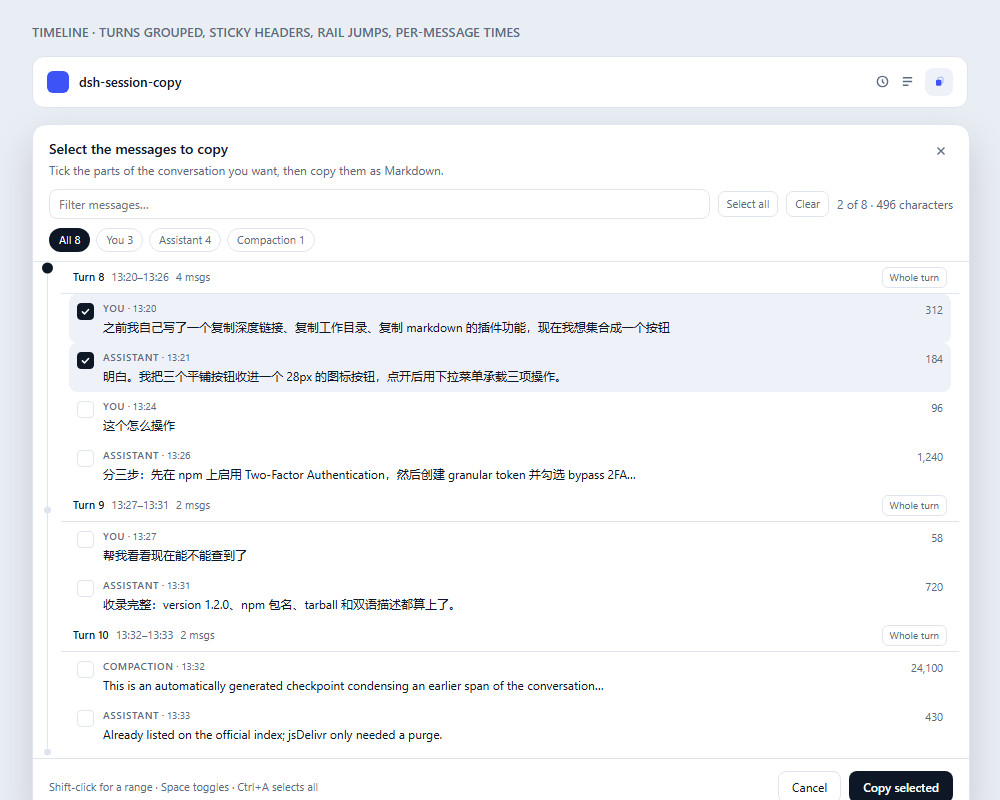
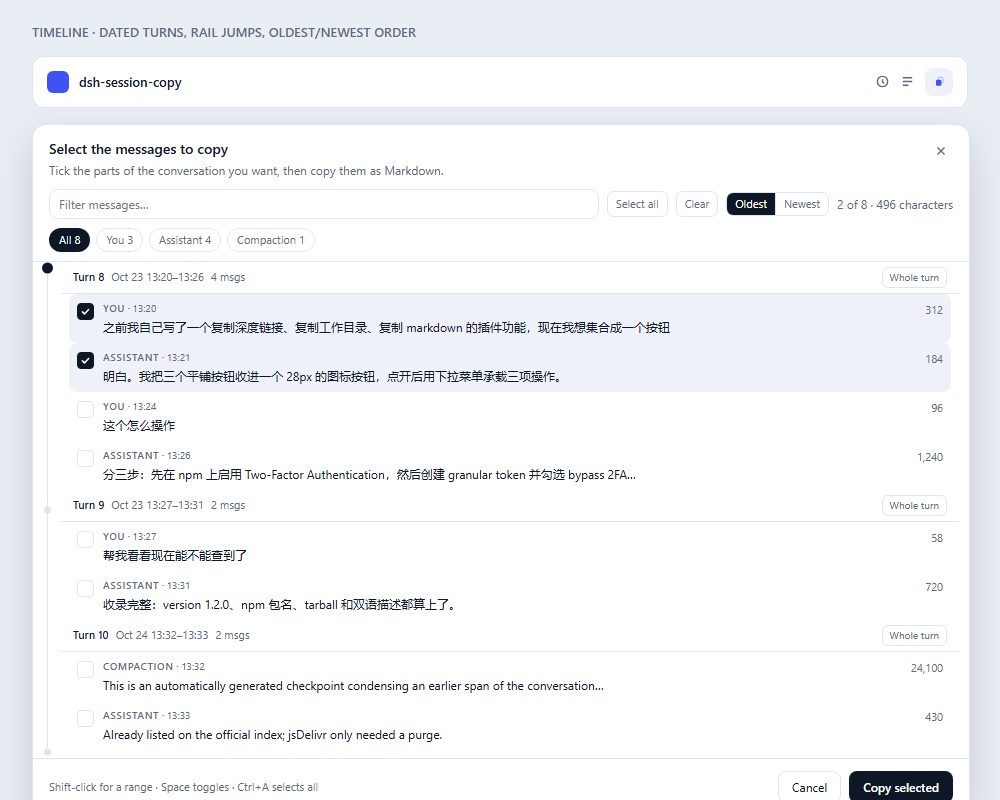
Release 1.7.0: dated timeline headers, and oldest/newest order
Two requests, both about finding a stretch of conversation.

Dates:
- Every turn header now carries the calendar date as well as the clock range —
  `Oct 23 13:20–13:26` — because readers look for "the one from the 23rd", not
  "the one at 13:20". A turn that crosses midnight renders both dates
  (`Oct 23 23:50 – Oct 24 00:12`). Row times stay `HH:MM` since the header above
  them already names the day.

Order:
- `Oldest` / `Newest` in the toolbar flips the whole timeline: the groups, the
  rows inside each group, and the rail, so newest-first starts at the most recent
  exchange and still reads naturally downwards. The scroll spy keeps working
  because it walks the rendered order, and the rail index is a position in that
  order.
- Ordering is presentation only. Selection keys off each entry's `index`, so a
  tick in either direction names the same message — asserted in the tests.

Also fixed while wiring this: `orderedGroups` dereferenced `picker` when the
dialog was closed, which threw on the next render after closing. It is now
guarded, and the client suite exercises open/close/open.

Tests: the client suite grows to 46 checks, adding the dated header, the range
keeping its clock, both order buttons, newest-first reversing groups and rows,
the rail following the order, and a reversed-order copy sending index [2] for the
same message. All four suites (46 + 10 + 16 + 16) pass against the installed copy.

diff --git a/assets/picker.html b/assets/picker.html
@@ -21,7 +21,7 @@
   .dshSessionCopyButton{width:26px;height:26px;background:var(--dsw-alias-interactive-bg-hover) !important;
     color:var(--dsw-alias-label-primary) !important}
   .dshSessionCopyButton svg{width:22px;height:22px}
-  .dshSessionCopyWrap{position:relative;display:inline-flex;align-items:center}.dshSessionCopyButton{display:inline-flex;align-items:center;justify-content:center;width:28px;height:28px;flex:none;padding:0;border:0;border-radius:8px;background:transparent;cursor:pointer;color:var(--dsw-alias-label-secondary)}.dshSessionCopyButton svg{width:15px;height:15px}.dshSessionCopyButton:hover,.dshSessionCopyButton[aria-expanded="true"]{color:var(--dsw-alias-label-primary);background:var(--dsw-alias-interactive-bg-hover)}.dshSessionCopyNode{position:relative;display:inline-flex;align-items:center}.dshSessionCopyPopover{position:absolute;top:calc(100% + 6px);right:0;z-index:45;display:flex;flex-direction:column;gap:2px;min-width:188px;padding:4px;border:1px solid var(--dsw-alias-border-l2);border-radius:10px;background:var(--dsw-alias-bg-base,#fff);box-shadow:0 12px 28px rgba(0,0,0,.18)}.dshSessionCopyItem{display:flex;align-items:center;gap:8px;width:100%;padding:6px 10px;border:0;border-radius:6px;background:transparent;cursor:pointer;color:var(--dsw-alias-label-primary);font-family:var(--dsw-font-family);font-size:12px;line-height:18px;text-align:left;white-space:nowrap}.dshSessionCopyItem:hover,.dshSessionCopyItem:focus-visible{background:var(--dsw-alias-interactive-bg-hover);outline:none}.dshSessionCopyItemIcon{display:inline-flex;align-items:center;flex:none;color:var(--dsw-alias-label-secondary)}.dshSessionCopyItemIcon svg{width:14px;height:14px}.dshSessionCopyNotice{position:absolute;top:calc(100% + 8px);right:0;z-index:40;max-width:min(440px,62vw);padding:6px 10px;border:1px solid var(--dsw-alias-border-l2);border-radius:8px;background:var(--dsw-alias-bg-base,#fff);color:var(--dsw-alias-label-primary);font-family:var(--dsw-font-family);font-size:12px;line-height:18px;box-shadow:0 8px 24px rgba(0,0,0,.18);white-space:nowrap;overflow:hidden;text-overflow:ellipsis;pointer-events:none}.dshSessionCopyNoticeError{color:var(--dsw-alias-label-error,#b42318)}.dshSessionCopyMask{position:fixed;inset:0;z-index:9999;display:flex;align-items:center;justify-content:center;padding:24px;background:rgba(8,14,24,.44)}.dshSessionCopyDialog{display:flex;flex-direction:column;width:min(920px,94vw);max-height:min(78vh,760px);border:1px solid var(--dsw-alias-border-l2);border-radius:14px;background:var(--dsw-alias-bg-base,#fff);color:var(--dsw-alias-label-primary);font-family:var(--dsw-font-family);box-shadow:0 24px 64px rgba(0,0,0,.30);overflow:hidden}@media (max-width:1040px){.dshSessionCopyDialog{width:min(94vw,100%)}}.dshSessionCopyDialogHead{display:flex;align-items:flex-start;gap:12px;padding:14px 16px 10px}.dshSessionCopyDialogTitles{min-width:0;flex:1}.dshSessionCopyDialogTitle{font-size:14px;font-weight:600;line-height:20px}.dshSessionCopyDialogDesc{margin-top:2px;font-size:12px;line-height:18px;color:var(--dsw-alias-label-secondary)}.dshSessionCopyClose{display:inline-flex;align-items:center;justify-content:center;width:24px;height:24px;flex:none;padding:0;border:0;border-radius:6px;background:transparent;cursor:pointer;color:var(--dsw-alias-label-secondary)}.dshSessionCopyClose:hover{background:var(--dsw-alias-interactive-bg-hover);color:var(--dsw-alias-label-primary)}.dshSessionCopyPickerBody{display:flex;flex-direction:column;min-height:0;flex:1}.dshSessionCopyToolbar{display:flex;align-items:center;gap:8px;flex-wrap:wrap;padding:0 16px 9px}.dshSessionCopyFilter{flex:1 1 170px;min-width:120px;padding:5px 9px;border:1px solid var(--dsw-alias-border-l2);border-radius:8px;background:transparent;color:inherit;font-family:inherit;font-size:12px;line-height:18px;outline:none}.dshSessionCopyFilter:focus{border-color:var(--dsw-alias-label-secondary)}.dshSessionCopyTool{padding:4px 8px;border:1px solid var(--dsw-alias-border-l2);border-radius:7px;background:transparent;color:var(--dsw-alias-label-secondary);font-family:inherit;font-size:11px;line-height:16px;cursor:pointer}.dshSessionCopyTool:hover:not(:disabled){background:var(--dsw-alias-interactive-bg-hover);color:var(--dsw-alias-label-primary)}.dshSessionCopyTool:disabled{opacity:.45;cursor:default}.dshSessionCopyCount{margin-left:auto;font-size:12px;line-height:18px;color:var(--dsw-alias-label-secondary);white-space:nowrap}.dshSessionCopyListWrap{display:flex;flex:1 1 auto;min-height:160px;border-top:1px solid var(--dsw-alias-border-l2)}.dshSessionCopyRail{position:relative;width:28px;flex:none;margin:6px 0;cursor:default}.dshSessionCopyRailTrack{position:absolute;left:50%;top:4px;bottom:4px;width:1px;margin-left:-0.5px;background:var(--dsw-alias-border-l2)}.dshSessionCopyRailDot{position:absolute;left:50%;width:7px;height:7px;margin-left:-3.5px;padding:0;border:0;border-radius:999px;background:var(--dsw-alias-border-l2);cursor:pointer;transform:translateY(-50%);transition:background .12s ease,width .12s ease,height .12s ease,margin .12s ease}.dshSessionCopyRailDot:hover{background:var(--dsw-alias-label-secondary)}.dshSessionCopyRailDotOn{width:11px;height:11px;margin-left:-5.5px;background:var(--dsw-alias-label-primary)}.dshSessionCopyList{position:relative;flex:1 1 auto;min-width:0;overflow-y:auto;overscroll-behavior:contain;padding:0 8px 8px;scrollbar-width:thin;scrollbar-color:var(--dsw-alias-border-l2) transparent;scrollbar-gutter:stable}.dshSessionCopyList::-webkit-scrollbar{width:12px}.dshSessionCopyList::-webkit-scrollbar-track{background:transparent;margin:4px 0}.dshSessionCopyList::-webkit-scrollbar-thumb{background:var(--dsw-alias-border-l2);border-radius:999px;border:4px solid transparent;background-clip:content-box;min-height:40px}.dshSessionCopyList::-webkit-scrollbar-thumb:hover{background:var(--dsw-alias-label-secondary);background-clip:content-box;border:4px solid transparent}.dshSessionCopyRow{display:flex;align-items:flex-start;gap:9px;padding:7px 8px;border-radius:8px;cursor:pointer}.dshSessionCopyRow:hover{background:var(--dsw-alias-interactive-bg-hover)}.dshSessionCopyRowOn{background:var(--dsw-alias-interactive-bg-hover)}.dshSessionCopyRow:focus-visible{outline:2px solid var(--dsw-alias-label-secondary);outline-offset:-2px}.dshSessionCopyBox{display:inline-flex;align-items:center;justify-content:center;width:15px;height:15px;flex:none;margin-top:2px;border:1.5px solid var(--dsw-alias-border-l2);border-radius:4px;background:transparent;color:var(--dsw-alias-bg-base,#fff)}.dshSessionCopyBoxOn{background:var(--dsw-alias-label-primary);border-color:var(--dsw-alias-label-primary)}.dshSessionCopyBox svg{width:11px;height:11px}.dshSessionCopyRowText{min-width:0;flex:1}.dshSessionCopyRole{display:block;font-size:10px;font-weight:600;letter-spacing:.06em;text-transform:uppercase;color:var(--dsw-alias-label-secondary)}.dshSessionCopyPreview{font-size:12px;line-height:17px;color:var(--dsw-alias-label-primary);word-break:break-word}.dshSessionCopyRowChars{flex:none;font-size:11px;line-height:17px;color:var(--dsw-alias-label-secondary)}.dshSessionCopyTime{color:var(--dsw-alias-label-secondary);font-weight:400;letter-spacing:0}.dshSessionCopyGroup{position:sticky;top:0;z-index:2;display:flex;align-items:center;gap:7px;margin:0 -8px;padding:5px 12px;background:var(--dsw-alias-bg-base,#fff);border-bottom:1px solid var(--dsw-alias-border-l2);font-size:11px;line-height:16px;color:var(--dsw-alias-label-secondary);white-space:nowrap}.dshSessionCopyGroupTurn{font-weight:600;color:var(--dsw-alias-label-primary)}.dshSessionCopyGroupCount{color:var(--dsw-alias-label-secondary)}.dshSessionCopyGroupToggle{margin-left:auto;padding:2px 7px;border:1px solid var(--dsw-alias-border-l2);border-radius:6px;background:transparent;color:var(--dsw-alias-label-secondary);font-family:inherit;font-size:10px;line-height:15px;cursor:pointer}.dshSessionCopyGroupToggle:hover{background:var(--dsw-alias-interactive-bg-hover);color:var(--dsw-alias-label-primary)}.dshSessionCopyGroupToggleOn{background:var(--dsw-alias-label-primary);border-color:transparent;color:var(--dsw-alias-bg-base,#fff)}.dshSessionCopyGroupToggleOn:hover{background:var(--dsw-alias-label-primary);color:var(--dsw-alias-bg-base,#fff)}.dshSessionCopyEmpty{padding:26px 16px;text-align:center;font-size:12px;line-height:18px;color:var(--dsw-alias-label-secondary)}.dshSessionCopyPickerError{padding:0 16px 8px;font-size:12px;line-height:18px;color:var(--dsw-alias-label-error,#b42318)}.dshSessionCopyChips{display:flex;flex-wrap:wrap;gap:6px;padding:0 16px 9px}.dshSessionCopyChip{padding:3px 9px;border:1px solid var(--dsw-alias-border-l2);border-radius:999px;background:transparent;color:var(--dsw-alias-label-secondary);font-family:inherit;font-size:11px;line-height:16px;cursor:pointer}.dshSessionCopyChip:hover{background:var(--dsw-alias-interactive-bg-hover);color:var(--dsw-alias-label-primary)}.dshSessionCopyChipOn{background:var(--dsw-alias-label-primary);border-color:transparent;color:var(--dsw-alias-bg-base,#fff)}.dshSessionCopyChipOn:hover{background:var(--dsw-alias-label-primary);color:var(--dsw-alias-bg-base,#fff)}.dshSessionCopyHint{margin-right:auto;font-size:11px;line-height:16px;color:var(--dsw-alias-label-secondary)}.dshSessionCopyFoot{display:flex;align-items:center;justify-content:flex-end;flex-wrap:wrap;gap:8px;padding:12px 16px;border-top:1px solid var(--dsw-alias-border-l2)}.dshSessionCopyAction{padding:6px 13px;border:1px solid var(--dsw-alias-border-l2);border-radius:8px;background:transparent;color:var(--dsw-alias-label-primary);font-family:inherit;font-size:12px;line-height:18px;cursor:pointer}.dshSessionCopyAction:hover:not(:disabled){background:var(--dsw-alias-interactive-bg-hover)}.dshSessionCopyAction:disabled{opacity:.45;cursor:default}.dshSessionCopyActionPrimary{border-color:transparent;background:var(--dsw-alias-label-primary);color:var(--dsw-alias-bg-base,#fff);font-weight:600}.dshSessionCopyActionPrimary:hover:not(:disabled){background:var(--dsw-alias-label-primary);opacity:.88}
+  .dshSessionCopyWrap{position:relative;display:inline-flex;align-items:center}.dshSessionCopyButton{display:inline-flex;align-items:center;justify-content:center;width:28px;height:28px;flex:none;padding:0;border:0;border-radius:8px;background:transparent;cursor:pointer;color:var(--dsw-alias-label-secondary)}.dshSessionCopyButton svg{width:15px;height:15px}.dshSessionCopyButton:hover,.dshSessionCopyButton[aria-expanded="true"]{color:var(--dsw-alias-label-primary);background:var(--dsw-alias-interactive-bg-hover)}.dshSessionCopyNode{position:relative;display:inline-flex;align-items:center}.dshSessionCopyPopover{position:absolute;top:calc(100% + 6px);right:0;z-index:45;display:flex;flex-direction:column;gap:2px;min-width:216px;padding:4px;border:1px solid var(--dsw-alias-border-l2);border-radius:10px;background:var(--dsw-alias-bg-base,#fff);box-shadow:0 12px 28px rgba(0,0,0,.18)}.dshSessionCopyItem{display:flex;align-items:center;gap:8px;width:100%;padding:6px 10px;border:0;border-radius:6px;background:transparent;cursor:pointer;color:var(--dsw-alias-label-primary);font-family:var(--dsw-font-family);font-size:12px;line-height:18px;text-align:left;white-space:nowrap}.dshSessionCopyItem:hover,.dshSessionCopyItem:focus-visible{background:var(--dsw-alias-interactive-bg-hover);outline:none}.dshSessionCopyItemIcon{display:inline-flex;align-items:center;flex:none;color:var(--dsw-alias-label-secondary)}.dshSessionCopyItemIcon svg{width:14px;height:14px}.dshSessionCopyNotice{position:absolute;top:calc(100% + 8px);right:0;z-index:40;max-width:min(440px,62vw);padding:6px 10px;border:1px solid var(--dsw-alias-border-l2);border-radius:8px;background:var(--dsw-alias-bg-base,#fff);color:var(--dsw-alias-label-primary);font-family:var(--dsw-font-family);font-size:12px;line-height:18px;box-shadow:0 8px 24px rgba(0,0,0,.18);white-space:nowrap;overflow:hidden;text-overflow:ellipsis;pointer-events:none}.dshSessionCopyNoticeError{color:var(--dsw-alias-label-error,#b42318)}.dshSessionCopyMask{position:fixed;inset:0;z-index:9999;display:flex;align-items:center;justify-content:center;padding:24px;background:rgba(8,14,24,.44)}.dshSessionCopyDialog{display:flex;flex-direction:column;width:min(920px,94vw);max-height:min(78vh,760px);border:1px solid var(--dsw-alias-border-l2);border-radius:14px;background:var(--dsw-alias-bg-base,#fff);color:var(--dsw-alias-label-primary);font-family:var(--dsw-font-family);box-shadow:0 24px 64px rgba(0,0,0,.30);overflow:hidden}@media (max-width:1040px){.dshSessionCopyDialog{width:min(94vw,100%)}}.dshSessionCopyDialogHead{display:flex;align-items:flex-start;gap:12px;padding:14px 16px 10px}.dshSessionCopyDialogTitles{min-width:0;flex:1}.dshSessionCopyDialogTitle{font-size:14px;font-weight:600;line-height:20px}.dshSessionCopyDialogDesc{margin-top:2px;font-size:12px;line-height:18px;color:var(--dsw-alias-label-secondary)}.dshSessionCopyClose{display:inline-flex;align-items:center;justify-content:center;width:24px;height:24px;flex:none;padding:0;border:0;border-radius:6px;background:transparent;cursor:pointer;color:var(--dsw-alias-label-secondary)}.dshSessionCopyClose:hover{background:var(--dsw-alias-interactive-bg-hover);color:var(--dsw-alias-label-primary)}.dshSessionCopyPickerBody{display:flex;flex-direction:column;min-height:0;flex:1}.dshSessionCopyToolbar{display:flex;align-items:center;gap:8px;flex-wrap:wrap;padding:0 16px 9px}.dshSessionCopyFilter{flex:1 1 170px;min-width:120px;padding:5px 9px;border:1px solid var(--dsw-alias-border-l2);border-radius:8px;background:transparent;color:inherit;font-family:inherit;font-size:12px;line-height:18px;outline:none}.dshSessionCopyFilter:focus{border-color:var(--dsw-alias-label-secondary)}.dshSessionCopyTool{padding:4px 8px;border:1px solid var(--dsw-alias-border-l2);border-radius:7px;background:transparent;color:var(--dsw-alias-label-secondary);font-family:inherit;font-size:11px;line-height:16px;cursor:pointer}.dshSessionCopyTool:hover:not(:disabled){background:var(--dsw-alias-interactive-bg-hover);color:var(--dsw-alias-label-primary)}.dshSessionCopyTool:disabled{opacity:.45;cursor:default}.dshSessionCopyCount{margin-left:auto;font-size:12px;line-height:18px;color:var(--dsw-alias-label-secondary);white-space:nowrap}.dshSessionCopyListWrap{display:flex;flex:1 1 auto;min-height:160px;border-top:1px solid var(--dsw-alias-border-l2)}.dshSessionCopyRail{position:relative;width:28px;flex:none;margin:6px 0;cursor:default}.dshSessionCopyRailTrack{position:absolute;left:50%;top:4px;bottom:4px;width:1px;margin-left:-0.5px;background:var(--dsw-alias-border-l2)}.dshSessionCopyRailDot{position:absolute;left:50%;width:7px;height:7px;margin-left:-3.5px;padding:0;border:0;border-radius:999px;background:var(--dsw-alias-border-l2);cursor:pointer;transform:translateY(-50%);transition:background .12s ease,width .12s ease,height .12s ease,margin .12s ease}.dshSessionCopyRailDot:hover{background:var(--dsw-alias-label-secondary)}.dshSessionCopyRailDotOn{width:11px;height:11px;margin-left:-5.5px;background:var(--dsw-alias-label-primary)}.dshSessionCopyList{position:relative;flex:1 1 auto;min-width:0;overflow-y:auto;overscroll-behavior:contain;padding:0 8px 8px;scrollbar-width:thin;scrollbar-color:var(--dsw-alias-border-l2) transparent;scrollbar-gutter:stable}.dshSessionCopyList::-webkit-scrollbar{width:12px}.dshSessionCopyList::-webkit-scrollbar-track{background:transparent;margin:4px 0}.dshSessionCopyList::-webkit-scrollbar-thumb{background:var(--dsw-alias-border-l2);border-radius:999px;border:4px solid transparent;background-clip:content-box;min-height:40px}.dshSessionCopyList::-webkit-scrollbar-thumb:hover{background:var(--dsw-alias-label-secondary);background-clip:content-box;border:4px solid transparent}.dshSessionCopyRow{display:flex;align-items:flex-start;gap:9px;padding:7px 8px;border-radius:8px;cursor:pointer}.dshSessionCopyRow:hover{background:var(--dsw-alias-interactive-bg-hover)}.dshSessionCopyRowOn{background:var(--dsw-alias-interactive-bg-hover)}.dshSessionCopyRow:focus-visible{outline:2px solid var(--dsw-alias-label-secondary);outline-offset:-2px}.dshSessionCopyBox{display:inline-flex;align-items:center;justify-content:center;width:15px;height:15px;flex:none;margin-top:2px;border:1.5px solid var(--dsw-alias-border-l2);border-radius:4px;background:transparent;color:var(--dsw-alias-bg-base,#fff)}.dshSessionCopyBoxOn{background:var(--dsw-alias-label-primary);border-color:var(--dsw-alias-label-primary)}.dshSessionCopyBox svg{width:11px;height:11px}.dshSessionCopyRowText{min-width:0;flex:1}.dshSessionCopyRole{display:block;font-size:10px;font-weight:600;letter-spacing:.06em;text-transform:uppercase;color:var(--dsw-alias-label-secondary)}.dshSessionCopyPreview{font-size:12px;line-height:17px;color:var(--dsw-alias-label-primary);word-break:break-word}.dshSessionCopyRowChars{flex:none;font-size:11px;line-height:17px;color:var(--dsw-alias-label-secondary)}.dshSessionCopyTime{color:var(--dsw-alias-label-secondary);font-weight:400;letter-spacing:0}.dshSessionCopyGroup{position:sticky;top:0;z-index:2;display:flex;align-items:center;gap:7px;margin:0 -8px;padding:5px 12px;background:var(--dsw-alias-bg-base,#fff);border-bottom:1px solid var(--dsw-alias-border-l2);font-size:11px;line-height:16px;color:var(--dsw-alias-label-secondary);white-space:nowrap}.dshSessionCopyGroupTurn{font-weight:600;color:var(--dsw-alias-label-primary)}.dshSessionCopyGroupCount{color:var(--dsw-alias-label-secondary)}.dshSessionCopyGroupToggle{margin-left:auto;padding:2px 7px;border:1px solid var(--dsw-alias-border-l2);border-radius:6px;background:transparent;color:var(--dsw-alias-label-secondary);font-family:inherit;font-size:10px;line-height:15px;cursor:pointer}.dshSessionCopyGroupToggle:hover{background:var(--dsw-alias-interactive-bg-hover);color:var(--dsw-alias-label-primary)}.dshSessionCopyGroupToggleOn{background:var(--dsw-alias-label-primary);border-color:transparent;color:var(--dsw-alias-bg-base,#fff)}.dshSessionCopyGroupToggleOn:hover{background:var(--dsw-alias-label-primary);color:var(--dsw-alias-bg-base,#fff)}.dshSessionCopyEmpty{padding:26px 16px;text-align:center;font-size:12px;line-height:18px;color:var(--dsw-alias-label-secondary)}.dshSessionCopyPickerError{padding:0 16px 8px;font-size:12px;line-height:18px;color:var(--dsw-alias-label-error,#b42318)}.dshSessionCopyChips{display:flex;flex-wrap:wrap;gap:6px;padding:0 16px 9px}.dshSessionCopyChip{padding:3px 9px;border:1px solid var(--dsw-alias-border-l2);border-radius:999px;background:transparent;color:var(--dsw-alias-label-secondary);font-family:inherit;font-size:11px;line-height:16px;cursor:pointer}.dshSessionCopyChip:hover{background:var(--dsw-alias-interactive-bg-hover);color:var(--dsw-alias-label-primary)}.dshSessionCopyChipOn{background:var(--dsw-alias-label-primary);border-color:transparent;color:var(--dsw-alias-bg-base,#fff)}.dshSessionCopyChipOn:hover{background:var(--dsw-alias-label-primary);color:var(--dsw-alias-bg-base,#fff)}.dshSessionCopyHint{margin-right:auto;font-size:11px;line-height:16px;color:var(--dsw-alias-label-secondary)}.dshSessionCopyOrder{display:inline-flex;flex:none;overflow:hidden;border:1px solid var(--dsw-alias-border-l2);border-radius:7px}.dshSessionCopyOrderButton{padding:3px 8px;border:0;background:transparent;color:var(--dsw-alias-label-secondary);font-family:inherit;font-size:11px;line-height:16px;cursor:pointer}.dshSessionCopyOrderButton + .dshSessionCopyOrderButton{border-left:1px solid var(--dsw-alias-border-l2)}.dshSessionCopyOrderButton:hover{background:var(--dsw-alias-interactive-bg-hover);color:var(--dsw-alias-label-primary)}.dshSessionCopyOrderButtonOn{background:var(--dsw-alias-label-primary);color:var(--dsw-alias-bg-base,#fff)}.dshSessionCopyOrderButtonOn:hover{background:var(--dsw-alias-label-primary);color:var(--dsw-alias-bg-base,#fff)}.dshSessionCopyFoot{display:flex;align-items:center;justify-content:flex-end;flex-wrap:wrap;gap:8px;padding:12px 16px;border-top:1px solid var(--dsw-alias-border-l2)}.dshSessionCopyAction{padding:6px 13px;border:1px solid var(--dsw-alias-border-l2);border-radius:8px;background:transparent;color:var(--dsw-alias-label-primary);font-family:inherit;font-size:12px;line-height:18px;cursor:pointer}.dshSessionCopyAction:hover:not(:disabled){background:var(--dsw-alias-interactive-bg-hover)}.dshSessionCopyAction:disabled{opacity:.45;cursor:default}.dshSessionCopyActionPrimary{border-color:transparent;background:var(--dsw-alias-label-primary);color:var(--dsw-alias-bg-base,#fff);font-weight:600}.dshSessionCopyActionPrimary:hover:not(:disabled){background:var(--dsw-alias-label-primary);opacity:.88}
   /* Show the dialog in place rather than centred in a mask. */
   .dshSessionCopyMask{position:static;display:block;padding:0;background:transparent}
   .dshSessionCopyDialog{width:100%;max-width:none;max-height:none;box-shadow:0 16px 40px rgba(0,0,0,.14)}
@@ -30,7 +30,7 @@
 </style></head>
 <body>
 <div class="stage">
-  <p class="caption">Timeline &middot; turns grouped, sticky headers, rail jumps, per-message times</p>
+  <p class="caption">Timeline &middot; dated turns, rail jumps, oldest/newest order</p>
   <div class="header">
     <div class="headerLeft"><span class="dot"></span><span class="title">dsh-session-copy</span></div>
     <div class="headerRight">
@@ -58,6 +58,9 @@
           <input class="dshSessionCopyFilter" type="text" placeholder="Filter messages…">
           <button class="dshSessionCopyTool">Select all</button>
           <button class="dshSessionCopyTool">Clear</button>
+          <span class="dshSessionCopyOrder">
+            <button class="dshSessionCopyOrderButton dshSessionCopyOrderButtonOn">Oldest</button><button class="dshSessionCopyOrderButton">Newest</button>
+          </span>
           <span class="dshSessionCopyCount">2 of 8 · 496 characters</span>
         </div>
         <div class="dshSessionCopyChips"><button class="dshSessionCopyChip dshSessionCopyChipOn">All 8</button><button class="dshSessionCopyChip">You 3</button><button class="dshSessionCopyChip">Assistant 4</button><button class="dshSessionCopyChip">Compaction 1</button></div>
@@ -71,7 +74,7 @@
           <div class="dshSessionCopyList">
             <div class="dshSessionCopyGroup" data-session-copy-group="0">
               <span class="dshSessionCopyGroupTurn">Turn 8</span>
-              <span>13:20–13:26</span>
+              <span>Oct 23 13:20–13:26</span>
               <span class="dshSessionCopyGroupCount">4 msgs</span>
               <button class="dshSessionCopyGroupToggle">Whole turn</button>
             </div>
@@ -109,7 +112,7 @@
             </div>
             <div class="dshSessionCopyGroup" data-session-copy-group="0">
               <span class="dshSessionCopyGroupTurn">Turn 9</span>
-              <span>13:27–13:31</span>
+              <span>Oct 23 13:27–13:31</span>
               <span class="dshSessionCopyGroupCount">2 msgs</span>
               <button class="dshSessionCopyGroupToggle">Whole turn</button>
             </div>
@@ -131,7 +134,7 @@
             </div>
             <div class="dshSessionCopyGroup" data-session-copy-group="0">
               <span class="dshSessionCopyGroupTurn">Turn 10</span>
-              <span>13:32–13:33</span>
+              <span>Oct 24 13:32–13:33</span>
               <span class="dshSessionCopyGroupCount">2 msgs</span>
               <button class="dshSessionCopyGroupToggle">Whole turn</button>
             </div>

diff --git a/lib/client.js b/lib/client.js
@@ -183,6 +183,16 @@ loader.load({
       + 'color:var(--dsw-alias-bg-base,#fff)}'
       + '.dshSessionCopyChipOn:hover{background:var(--dsw-alias-label-primary);color:var(--dsw-alias-bg-base,#fff)}'
       + '.dshSessionCopyHint{margin-right:auto;font-size:11px;line-height:16px;color:var(--dsw-alias-label-secondary)}'
+      + '.dshSessionCopyOrder{display:inline-flex;flex:none;overflow:hidden;border:1px solid var(--dsw-alias-border-l2);'
+      + 'border-radius:7px}'
+      + '.dshSessionCopyOrderButton{padding:3px 8px;border:0;background:transparent;'
+      + 'color:var(--dsw-alias-label-secondary);font-family:inherit;font-size:11px;line-height:16px;cursor:pointer}'
+      + '.dshSessionCopyOrderButton + .dshSessionCopyOrderButton{border-left:1px solid var(--dsw-alias-border-l2)}'
+      + '.dshSessionCopyOrderButton:hover{background:var(--dsw-alias-interactive-bg-hover);'
+      + 'color:var(--dsw-alias-label-primary)}'
+      + '.dshSessionCopyOrderButtonOn{background:var(--dsw-alias-label-primary);color:var(--dsw-alias-bg-base,#fff)}'
+      + '.dshSessionCopyOrderButtonOn:hover{background:var(--dsw-alias-label-primary);'
+      + 'color:var(--dsw-alias-bg-base,#fff)}'
       + '.dshSessionCopyFoot{display:flex;align-items:center;justify-content:flex-end;flex-wrap:wrap;gap:8px;'
       + 'padding:12px 16px;border-top:1px solid var(--dsw-alias-border-l2)}'
       + '.dshSessionCopyAction{padding:6px 13px;border:1px solid var(--dsw-alias-border-l2);border-radius:8px;'
@@ -245,6 +255,8 @@ loader.load({
       'picker.turnCount': '{n} 条',
       'picker.turnSelect': '整轮',
       'picker.turnClear': '取消整轮',
+      'picker.orderAsc': '正序',
+      'picker.orderDesc': '倒序',
       'picker.hint': 'Shift 点选可连续选择 · 空格勾选 · Ctrl+A 全选',
       'picker.copy': '复制所选',
       'picker.cancel': '取消',
@@ -297,6 +309,8 @@ loader.load({
       'picker.turnCount': '{n} msgs',
       'picker.turnSelect': 'Whole turn',
       'picker.turnClear': 'Clear turn',
+      'picker.orderAsc': 'Oldest',
+      'picker.orderDesc': 'Newest',
       'picker.hint': 'Shift-click for a range · Space toggles · Ctrl+A selects all',
       'picker.copy': 'Copy selected',
       'picker.cancel': 'Cancel',
@@ -863,6 +877,9 @@ loader.load({
         groupToggle: 'dshSessionCopyGroupToggle',
         groupToggleOn: 'dshSessionCopyGroupToggleOn',
         time: 'dshSessionCopyTime',
+        order: 'dshSessionCopyOrder',
+        orderButton: 'dshSessionCopyOrderButton',
+        orderButtonOn: 'dshSessionCopyOrderButtonOn',
         mask: 'dshSessionCopyMask',
         dialog: 'dshSessionCopyDialog',
         dialogHead: 'dshSessionCopyDialogHead',
@@ -1003,13 +1020,14 @@ loader.load({
             setPicker({
               status: 'ready', entries: cached.entries, total: cached.total,
               selected: [], filter: '', role: 'all', anchor: null, error: '', busy: false,
-              activeGroup: 0,
+              activeGroup: 0, newestFirst: false,
             });
             return;
           }
           setPicker({
             status: 'loading', entries: [], total: 0, selected: [],
             filter: '', role: 'all', anchor: null, error: '', busy: false, activeGroup: 0,
+            newestFirst: false,
           });
           try {
             const value = await readEntries(sessionId);
@@ -1218,6 +1236,27 @@ loader.load({
               onClick: () => setSelected([]),
               children: tr('picker.clear'),
             }),
+            jsxs('span', {
+              className: CSS.order,
+              children: [
+                jsx('button', {
+                  type: 'button',
+                  className: picker.newestFirst === true ? CSS.orderButton : `${CSS.orderButton} ${CSS.orderButtonOn}`,
+                  'aria-pressed': picker.newestFirst !== true,
+                  title: tr('picker.orderAsc'),
+                  onClick: () => patchPicker({ newestFirst: false, activeGroup: 0 }),
+                  children: tr('picker.orderAsc'),
+                }),
+                jsx('button', {
+                  type: 'button',
+                  className: picker.newestFirst === true ? `${CSS.orderButton} ${CSS.orderButtonOn}` : CSS.orderButton,
+                  'aria-pressed': picker.newestFirst === true,
+                  title: tr('picker.orderDesc'),
+                  onClick: () => patchPicker({ newestFirst: true, activeGroup: 0 }),
+                  children: tr('picker.orderDesc'),
+                }),
+              ],
+            }),
             jsx('span', {
               className: CSS.count,
               children: picker.selected.length === 0
@@ -1238,6 +1277,20 @@ loader.load({
           if (typeof ms !== 'number' || !Number.isFinite(ms)) return null;
           try {
             return new Date(ms).toLocaleTimeString(undefined, { hour: '2-digit', minute: '2-digit' });
+          } catch {
+            return null;
+          }
+        };
+
+        /**
+         * `Oct 23` / `10月23日` — the calendar day, so a timeline that spans days
+         * is readable without hovering. The year is left out on purpose: a
+         * session is a conversation, not an archive.
+         */
+        const formatDay = (ms) => {
+          if (typeof ms !== 'number' || !Number.isFinite(ms)) return null;
+          try {
+            return new Date(ms).toLocaleDateString(undefined, { month: 'short', day: 'numeric' });
           } catch {
             return null;
           }
@@ -1285,6 +1338,21 @@ loader.load({
           return groups;
         })();
 
+        /**
+         * The groups in the order they are rendered.
+         *
+         * Newest-first reverses the groups *and* the rows inside each group, so
+         * within one turn the latest message is still the nearest one. Selection
+         * is unaffected: it keys off each entry's `index`, not its position.
+         */
+        const newestFirst = picker !== null && picker.newestFirst === true;
+        const orderedGroups = newestFirst !== true
+          ? pickerGroups
+          : pickerGroups
+            .slice()
+            .reverse()
+            .map((group) => ({ ...group, entries: group.entries.slice().reverse() }));
+
         /** Every row index in one group, in list order. */
         const groupIndices = (group) => group.entries.map((entry) => entry.index);
 
@@ -1306,11 +1374,21 @@ loader.load({
           });
         };
 
+        /**
+         * `10月23日 13:20–13:26`, or `10月23日 23:50 – 10月24日 00:12` when one
+         * turn crosses midnight. The date is always shown: readers look for "the
+         * one from the 23rd", not "the one at 13:20".
+         */
         const groupRange = (group) => {
           const from = formatClock(group.start);
-          const to = formatClock(group.end);
           if (from === null) return '';
-          return from === to || to === null ? from : `${from}–${to}`;
+          const fromDay = formatDay(group.start);
+          const to = formatClock(group.end);
+          const prefix = fromDay === null ? '' : `${fromDay} `;
+          if (to === null || to === from) return `${prefix}${from}`;
+          const toDay = formatDay(group.end);
+          if (toDay === null || toDay === fromDay) return `${prefix}${from}–${to}`;
+          return `${prefix}${from} – ${toDay} ${to}`;
         };
 
         const groupLabel = (group) => (group.turn === null
@@ -1351,15 +1429,15 @@ loader.load({
         };
 
         const pickerRail = (() => {
-          if (pickerGroups.length === 0) return null;
-          const span = Math.max(pickerGroups.length - 1, 1);
+          if (orderedGroups.length === 0) return null;
+          const span = Math.max(orderedGroups.length - 1, 1);
           return jsxs('div', {
             className: CSS.rail,
             'aria-hidden': 'true',
             children: [
               jsx('span', { className: CSS.railTrack }),
-              ...pickerGroups.map((group, index) => {
-                const top = pickerGroups.length === 1 ? 50 : (100 * index) / span;
+              ...orderedGroups.map((group, index) => {
+                const top = orderedGroups.length === 1 ? 50 : (100 * index) / span;
                 return jsx('button', {
                   type: 'button',
                   className: index === picker.activeGroup
@@ -1456,7 +1534,7 @@ loader.load({
             return jsx('div', { className: CSS.empty, children: tr('picker.noMatch') });
           }
           const rows = [];
-          pickerGroups.forEach((group, index) => {
+          orderedGroups.forEach((group, index) => {
             rows.push(groupHeader(group, index), ...group.entries.map((entry) => pickerRow(entry)));
           });
           return jsxs('div', {

diff --git a/README.md b/README.md
@@ -66,9 +66,12 @@ with its role, a one-line preview and its size, and copies only what you tick.
 ![The message picker: a timeline rail, turns with sticky headers, per-message times, role chips and a live size meter](https://raw.githubusercontent.com/2310770803/dsh-session-copy/main/assets/picker.png)
 
 - **Timeline.** The list is grouped by turn; each group has a sticky header with
-  the turn number, its time range and its size, and a rail down the left marks
-  every turn — click a marker to jump to it, and the active marker follows your
-  scrolling. Every row shows the time its message was sent.
+  the turn number, its **calendar date** and time range, and its size, and a rail
+  down the left marks every turn — click a marker to jump to it, and the active
+  marker follows your scrolling. Every row shows the time its message was sent.
+- **Oldest / Newest** switches the whole timeline around, rail included, so you
+  can start from the most recent exchange when the part you want is recent. The
+  order never changes *which* message a tick refers to.
 - **Whole turn** on a header ticks (or clears) every message in that exchange,
   which is usually the unit you actually want.
 - **Role chips** — All / You / Assistant / Compaction — cut the list down to the
